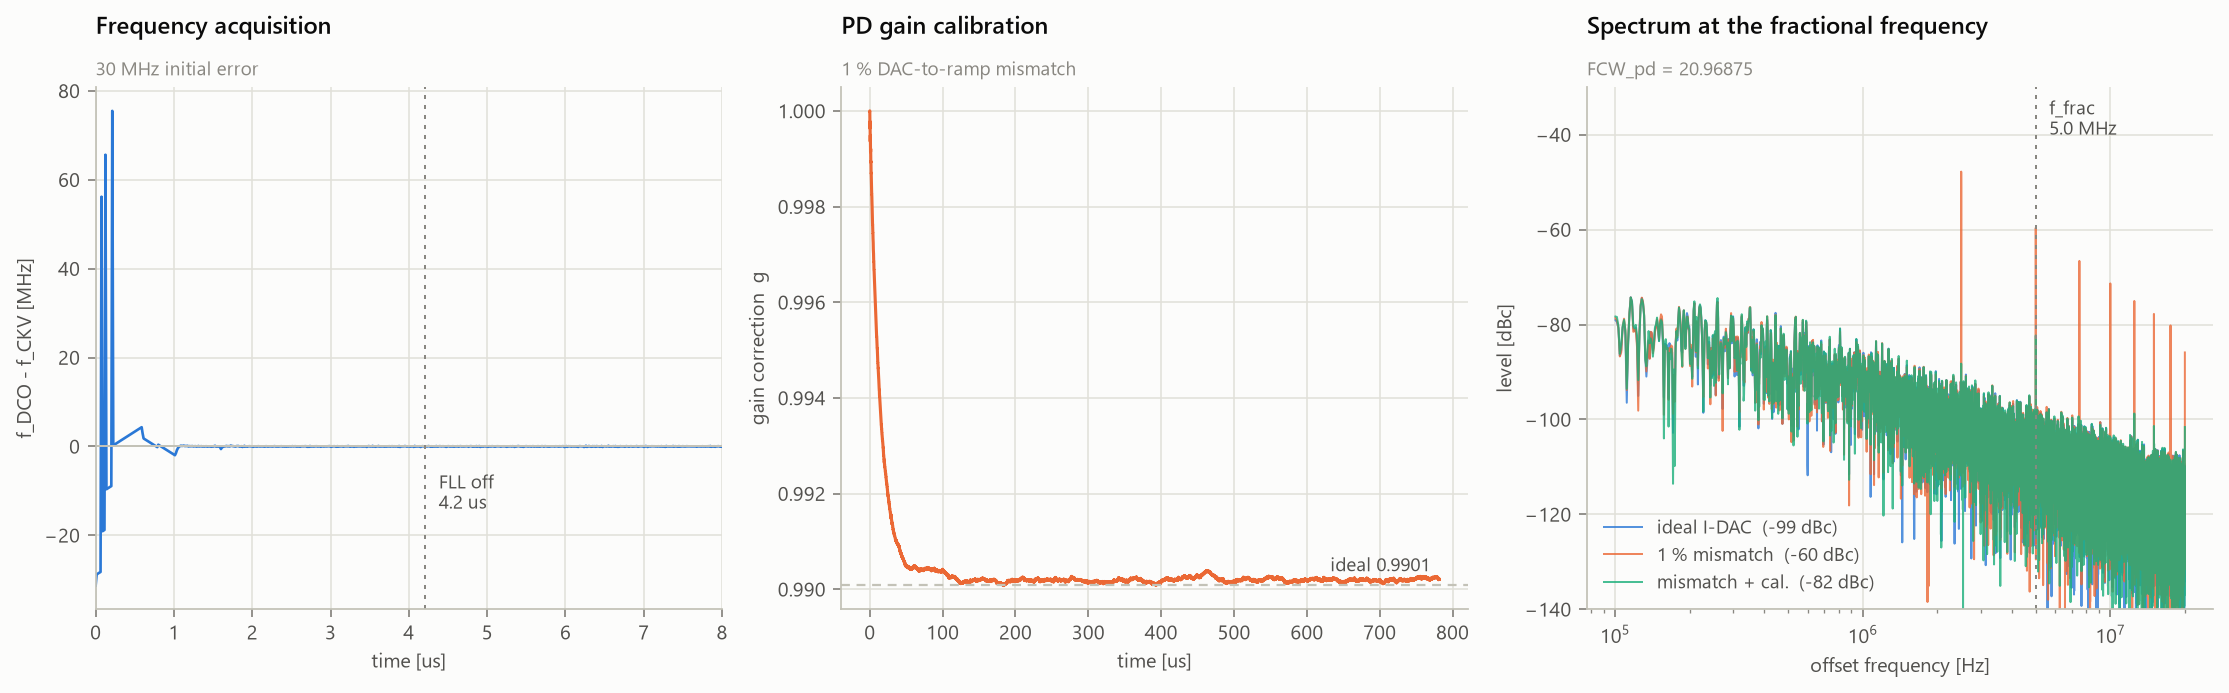
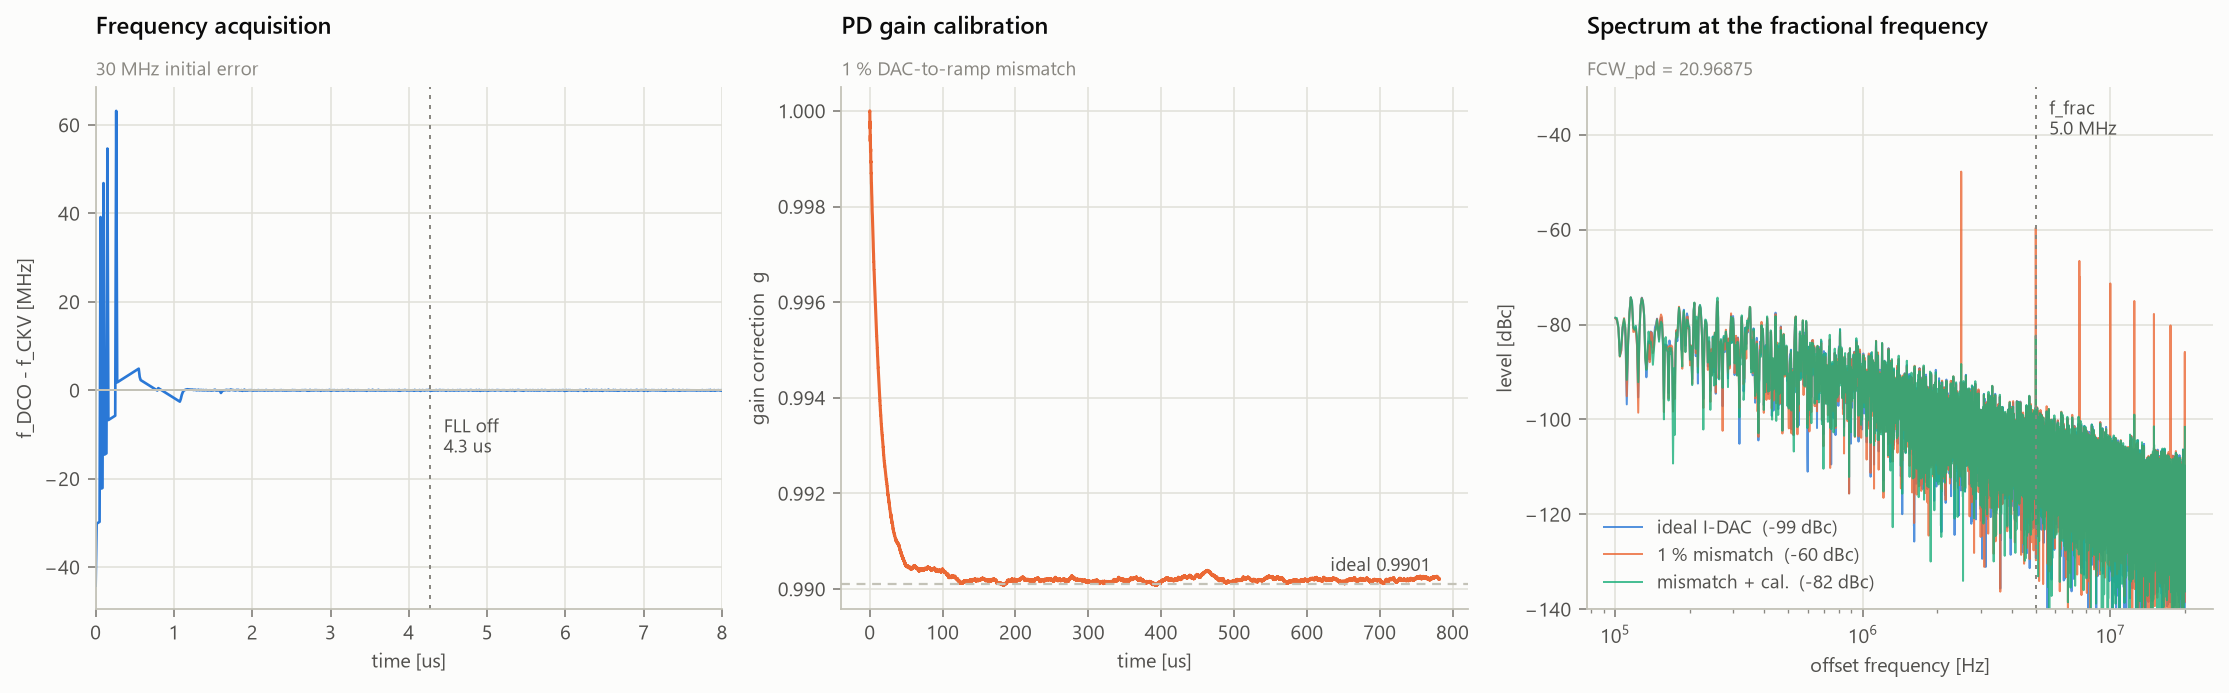
Regenerate the figures after the acquisition fixes
The committed PNGs predated aad9559.  Fig. 15 changes most: every ideal-DAC
channel now locks at 94-98 fs, so the bit 9 / 11 outliers are gone.  Its
direct line labels collided at the right edge and duplicated the legend,
so they are dropped.

diff --git a/scripts/fig15_spur_vs_fraction.py b/scripts/fig15_spur_vs_fraction.py
@@ -31,7 +31,7 @@ import numpy as np
 sys.path.insert(0, str(__import__("pathlib").Path(__file__).resolve().parent.parent))
 
 from fdvadpll import FdvPll, fractional_design, measured_fit_design
-from _style import INK_2, SERIES, save, title, use_style
+from _style import SERIES, save, title, use_style
 
 BITS = list(range(2, 12))
 N_CYCLES = 1 << 16
@@ -54,7 +54,7 @@ def main() -> None:
     base = measured_fit_design()
     fig, (ax, ax2) = plt.subplots(1, 2, figsize=(11.5, 4.6))
 
-    for label, short, pd_kw, run_kw, colour in CASES:
+    for label, _short, pd_kw, run_kw, colour in CASES:
         spurs, jitters = [], []
         for bit in BITS:
             d = fractional_design(bit, base)
@@ -67,16 +67,13 @@ def main() -> None:
                   f"{spurs[-1]:7.1f} dBc, {jitters[-1]:6.1f} fs")
         ax.plot(BITS, spurs, color=colour, marker="o", label=label)
         ax2.plot(BITS, jitters, color=colour, marker="o", label=label)
-        ax.annotate(short, xy=(BITS[-1], spurs[-1]), xytext=(7, 0),
-                    textcoords="offset points", fontsize=8.5, color=INK_2,
-                    va="center")
 
     title(ax, "Fractional spur",
           f"FCW_pd = 21 - 2^-Nq,  {N_CYCLES} reference cycles per point")
     ax.set_xlabel("asserted fractional bit  Nq")
     ax.set_ylabel("spur at f_frac [dBc]")
     ax.set_xticks(BITS)
-    ax.set_xlim(BITS[0] - 0.4, BITS[-1] + 1.6)   # room for the direct labels
+    ax.set_xlim(BITS[0] - 0.4, BITS[-1] + 0.4)
     ax.legend(loc="lower right")
 
     title(ax2, "Integrated jitter",
